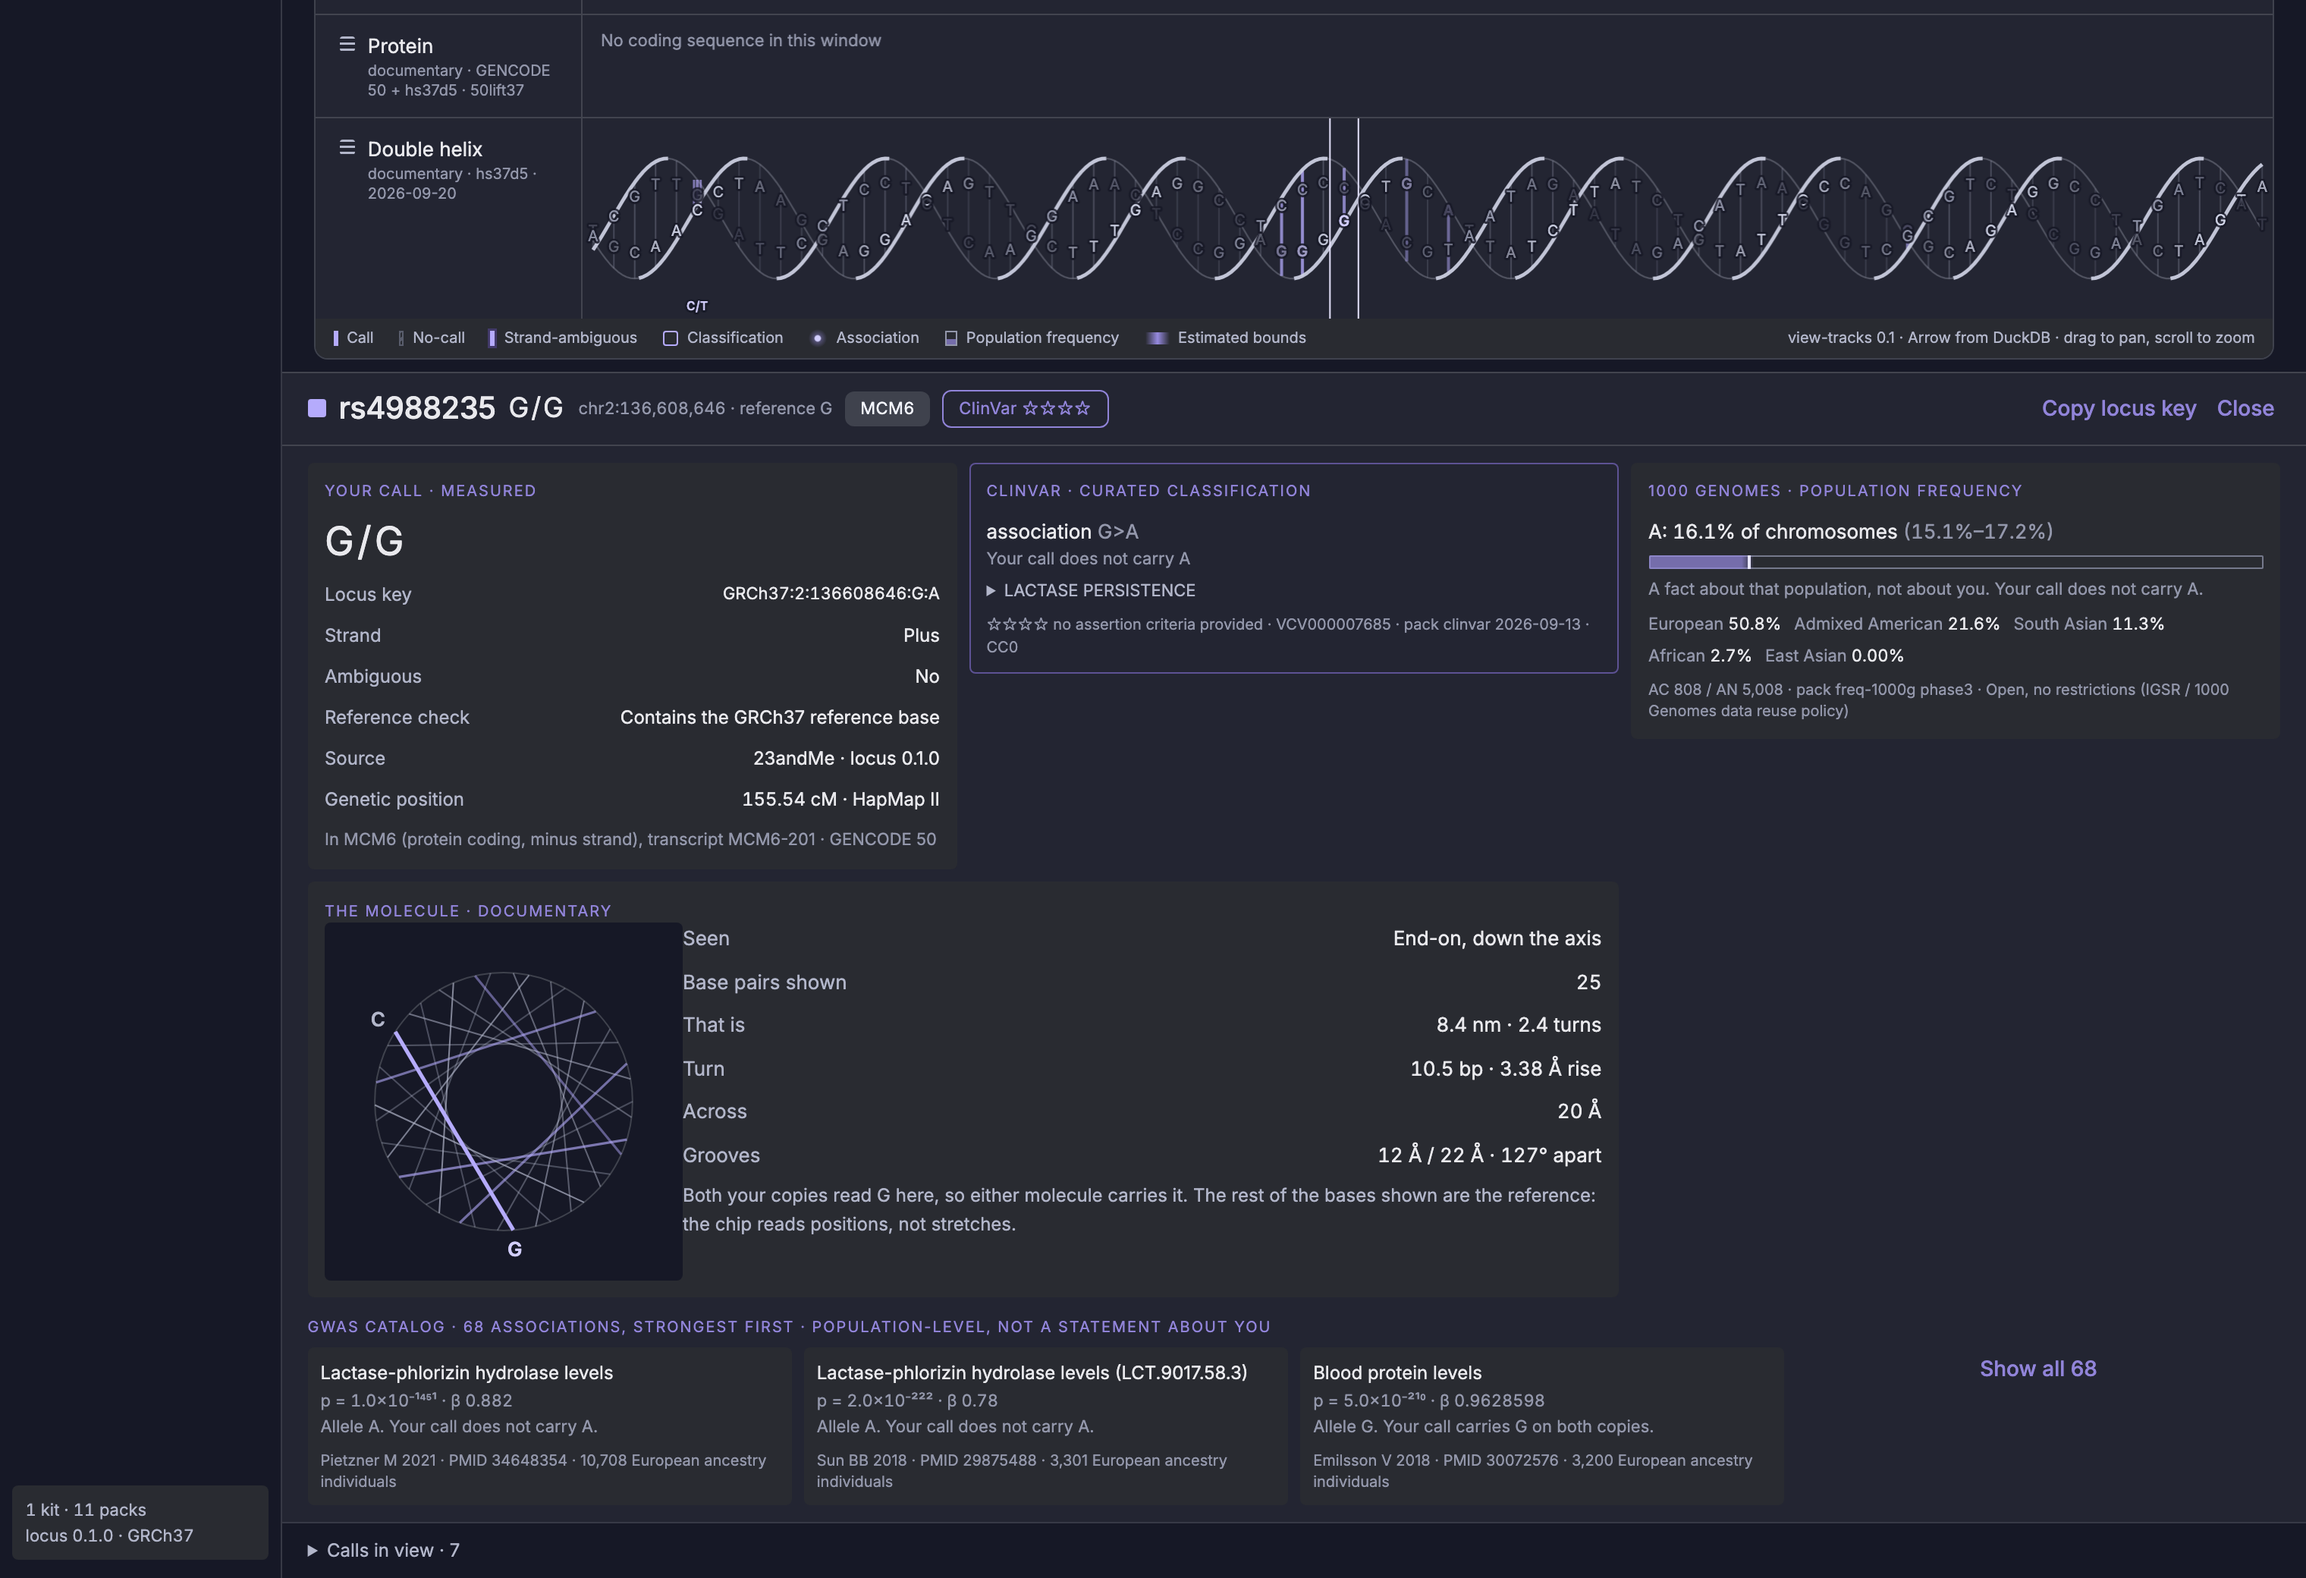
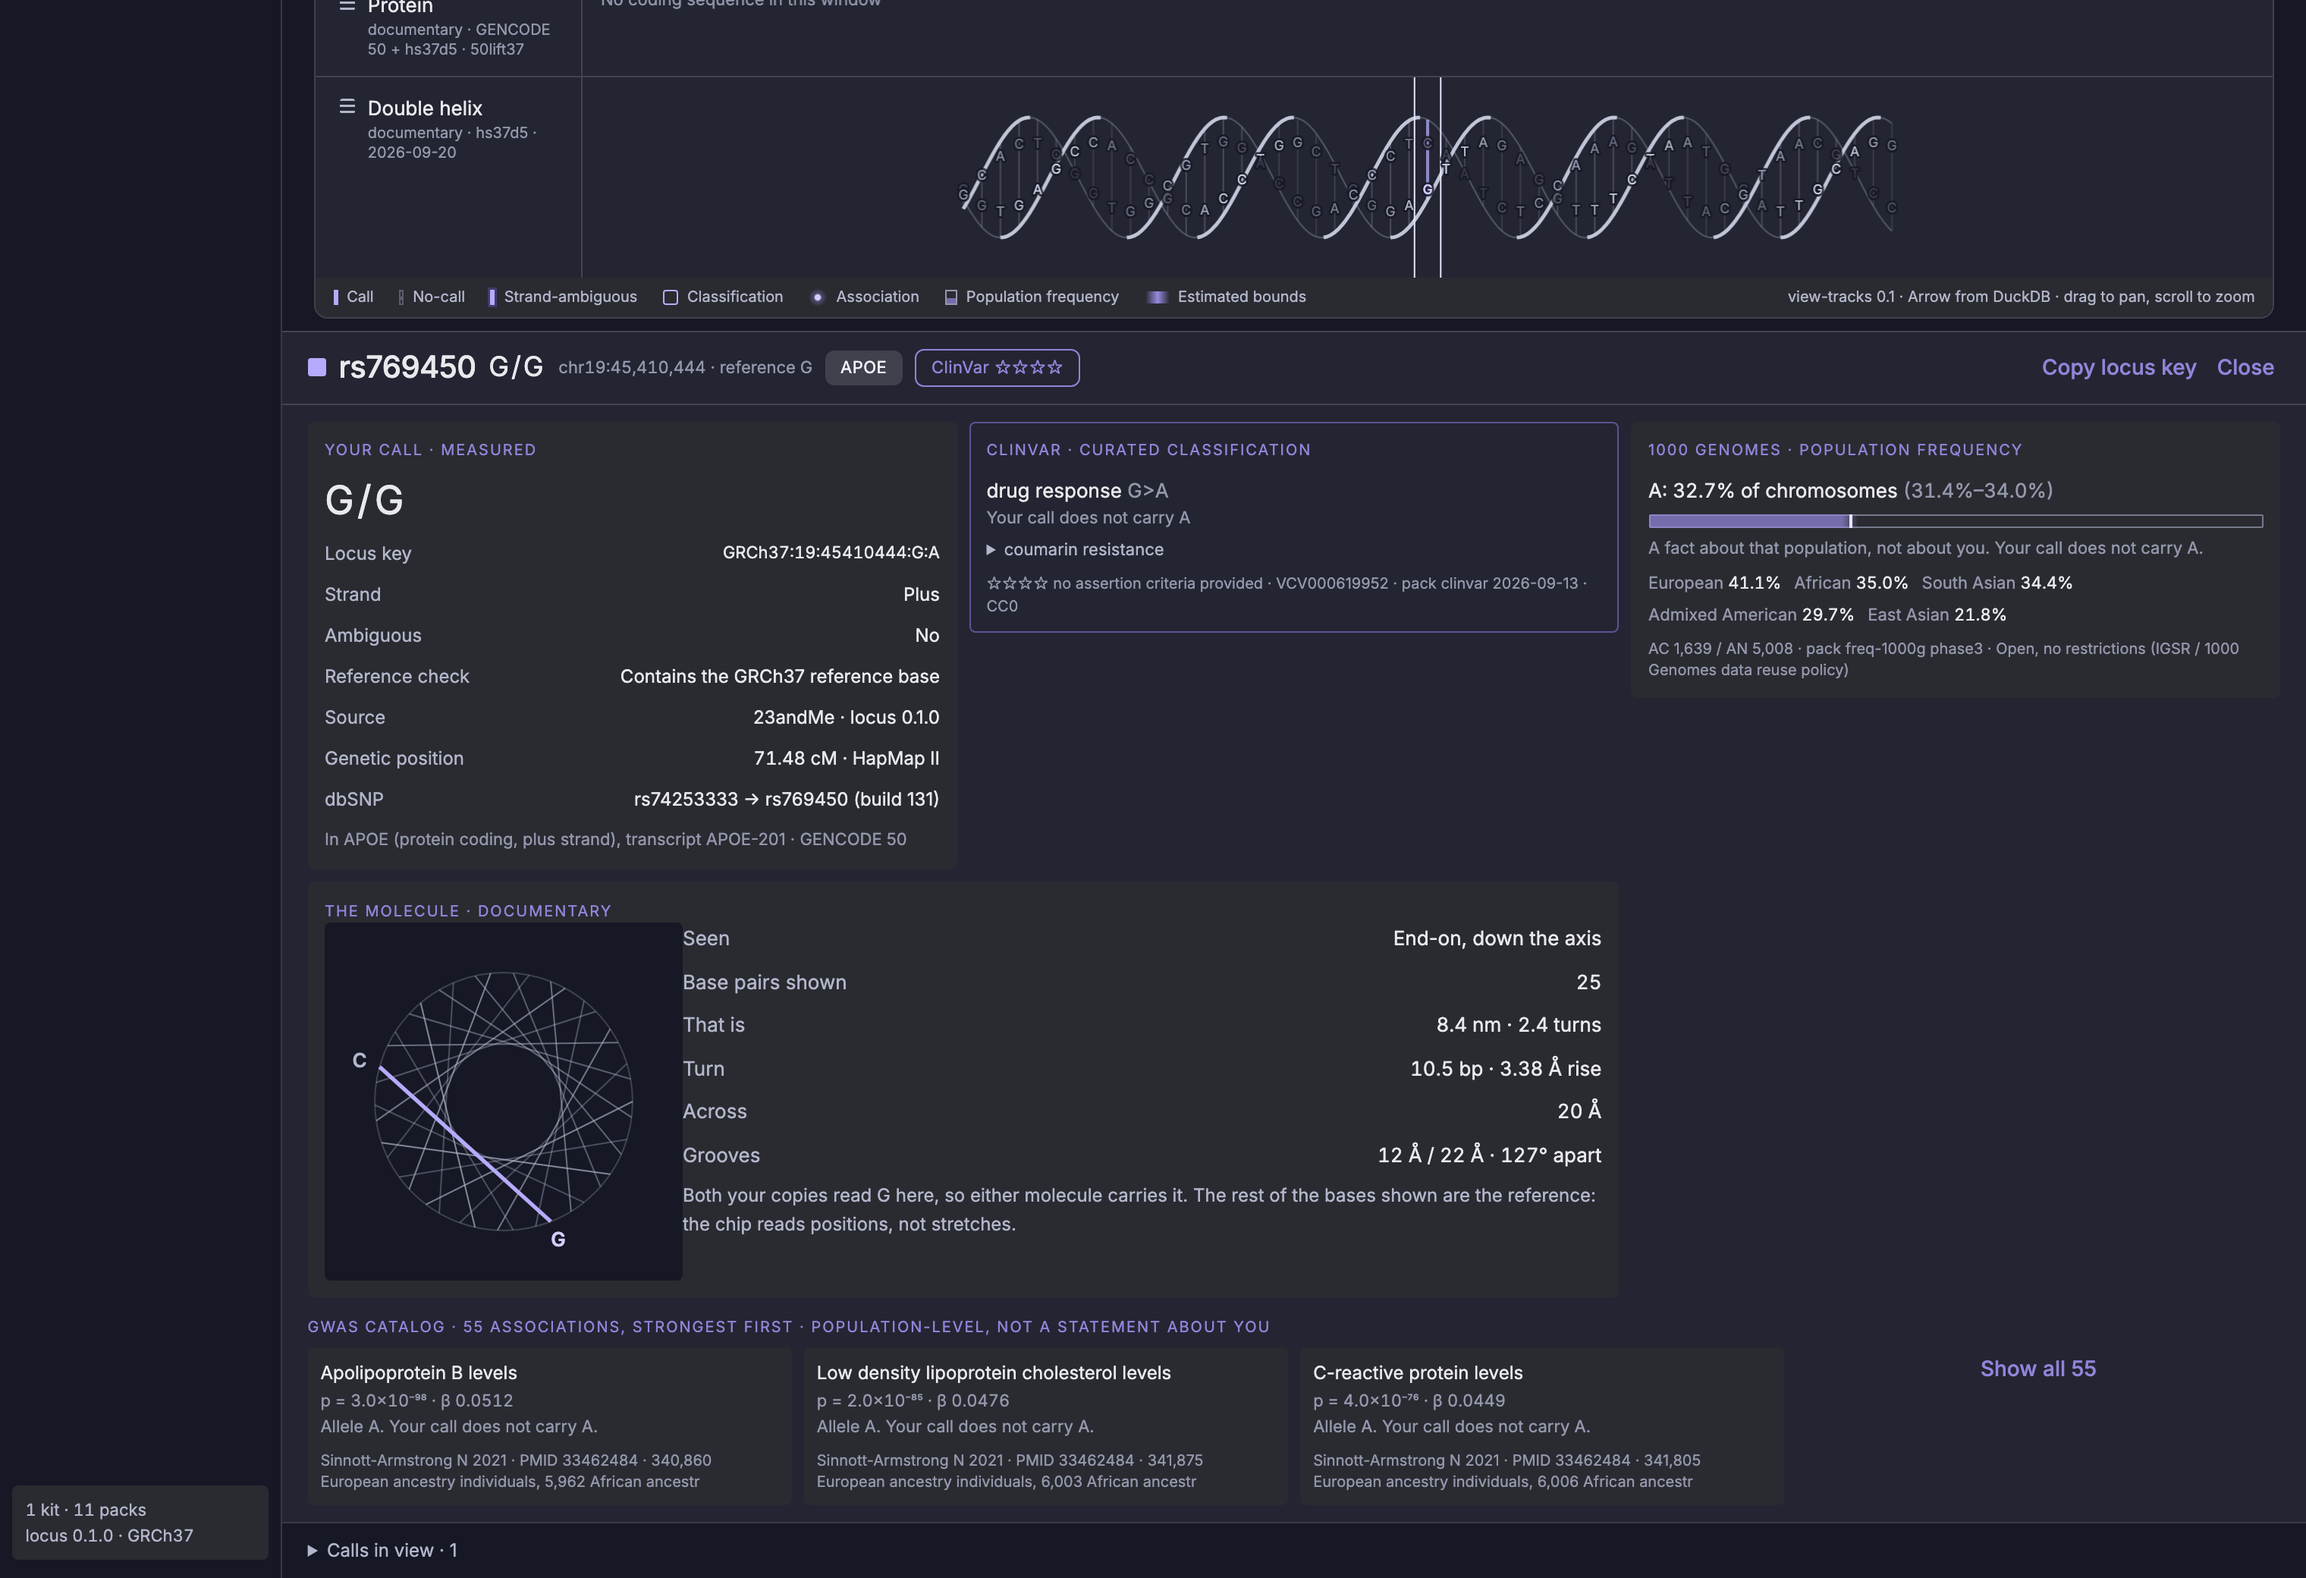
Screenshots from the entry point, at a position worth looking at
Both helix images are now taken the way anyone would arrive: land somewhere
broad, use "take me to the molecule", and end up at APOE with a measured
base on the molecule beside its retired rsID, ClinVar drug-response record
and frequencies - rather than at 91 bases of pure reference.

diff --git a/README.md b/README.md
@@ -36,13 +36,13 @@ Design and decisions live in [`docs/`](docs/): [Core architecture](docs/Core%20a
 
 **The double helix.** Keep going and the molecule itself is drawn, from the published B-form measurements — 10.5 base pairs per turn, 3.38 Å rise, 20 Å across, a 12 Å minor and a 22 Å major groove — so the turn, the handedness and the unequal grooves are real rather than stylised. It is a ribbon model, not an atomic one: the atoms are left out rather than approximated.
 
-![The double helix track below the sequence and protein tracks, with base letters on both strands and the reference sequence above](docs/screenshots/helix.png)
+![The genome view at APOE after using “take me to the molecule”: the double helix drawn below the sequence and protein tracks, with base letters on both strands](docs/screenshots/helix.png)
 
 The sequence pack covers coding exons and chip positions rather than the whole genome, so the molecule can only be drawn in the stretches it reaches. **Take me to the molecule** in the genome view's toolbar jumps to the nearest one, preferring a position your own chip read.
 
 A helix is *one* molecule, and you have two copies of each autosome, so the drawing says which bases are yours. Where both copies agree, your base is drawn and marked as measured. Where they differ, the reference base is drawn with both of your letters beside a doubled rung: chip data is unphased, so placing either one on this molecule would be a guess about which parent it came from. Everything else is the reference standing in, because a chip reads positions, not stretches. The detail dock shows the same geometry end-on, looking down the axis.
 
-![The detail dock at rs4988235, with the molecule shown end-on as a rosette of stacked base pairs and the B-form measurements beside it](docs/screenshots/helix-endon.png)
+![The detail dock at rs769450 in APOE: the call, ClinVar, frequencies, and the molecule shown end-on as a rosette of stacked base pairs with the B-form measurements beside it](docs/screenshots/helix-endon.png)
 
 **3D structure.** A coding position names its residue and what the allele changes it to, computed here from GENCODE coding blocks and the GRCh37 sequence. Mol\* then shows the residue in the protein's predicted shape, after you grant the one request it takes.
 
